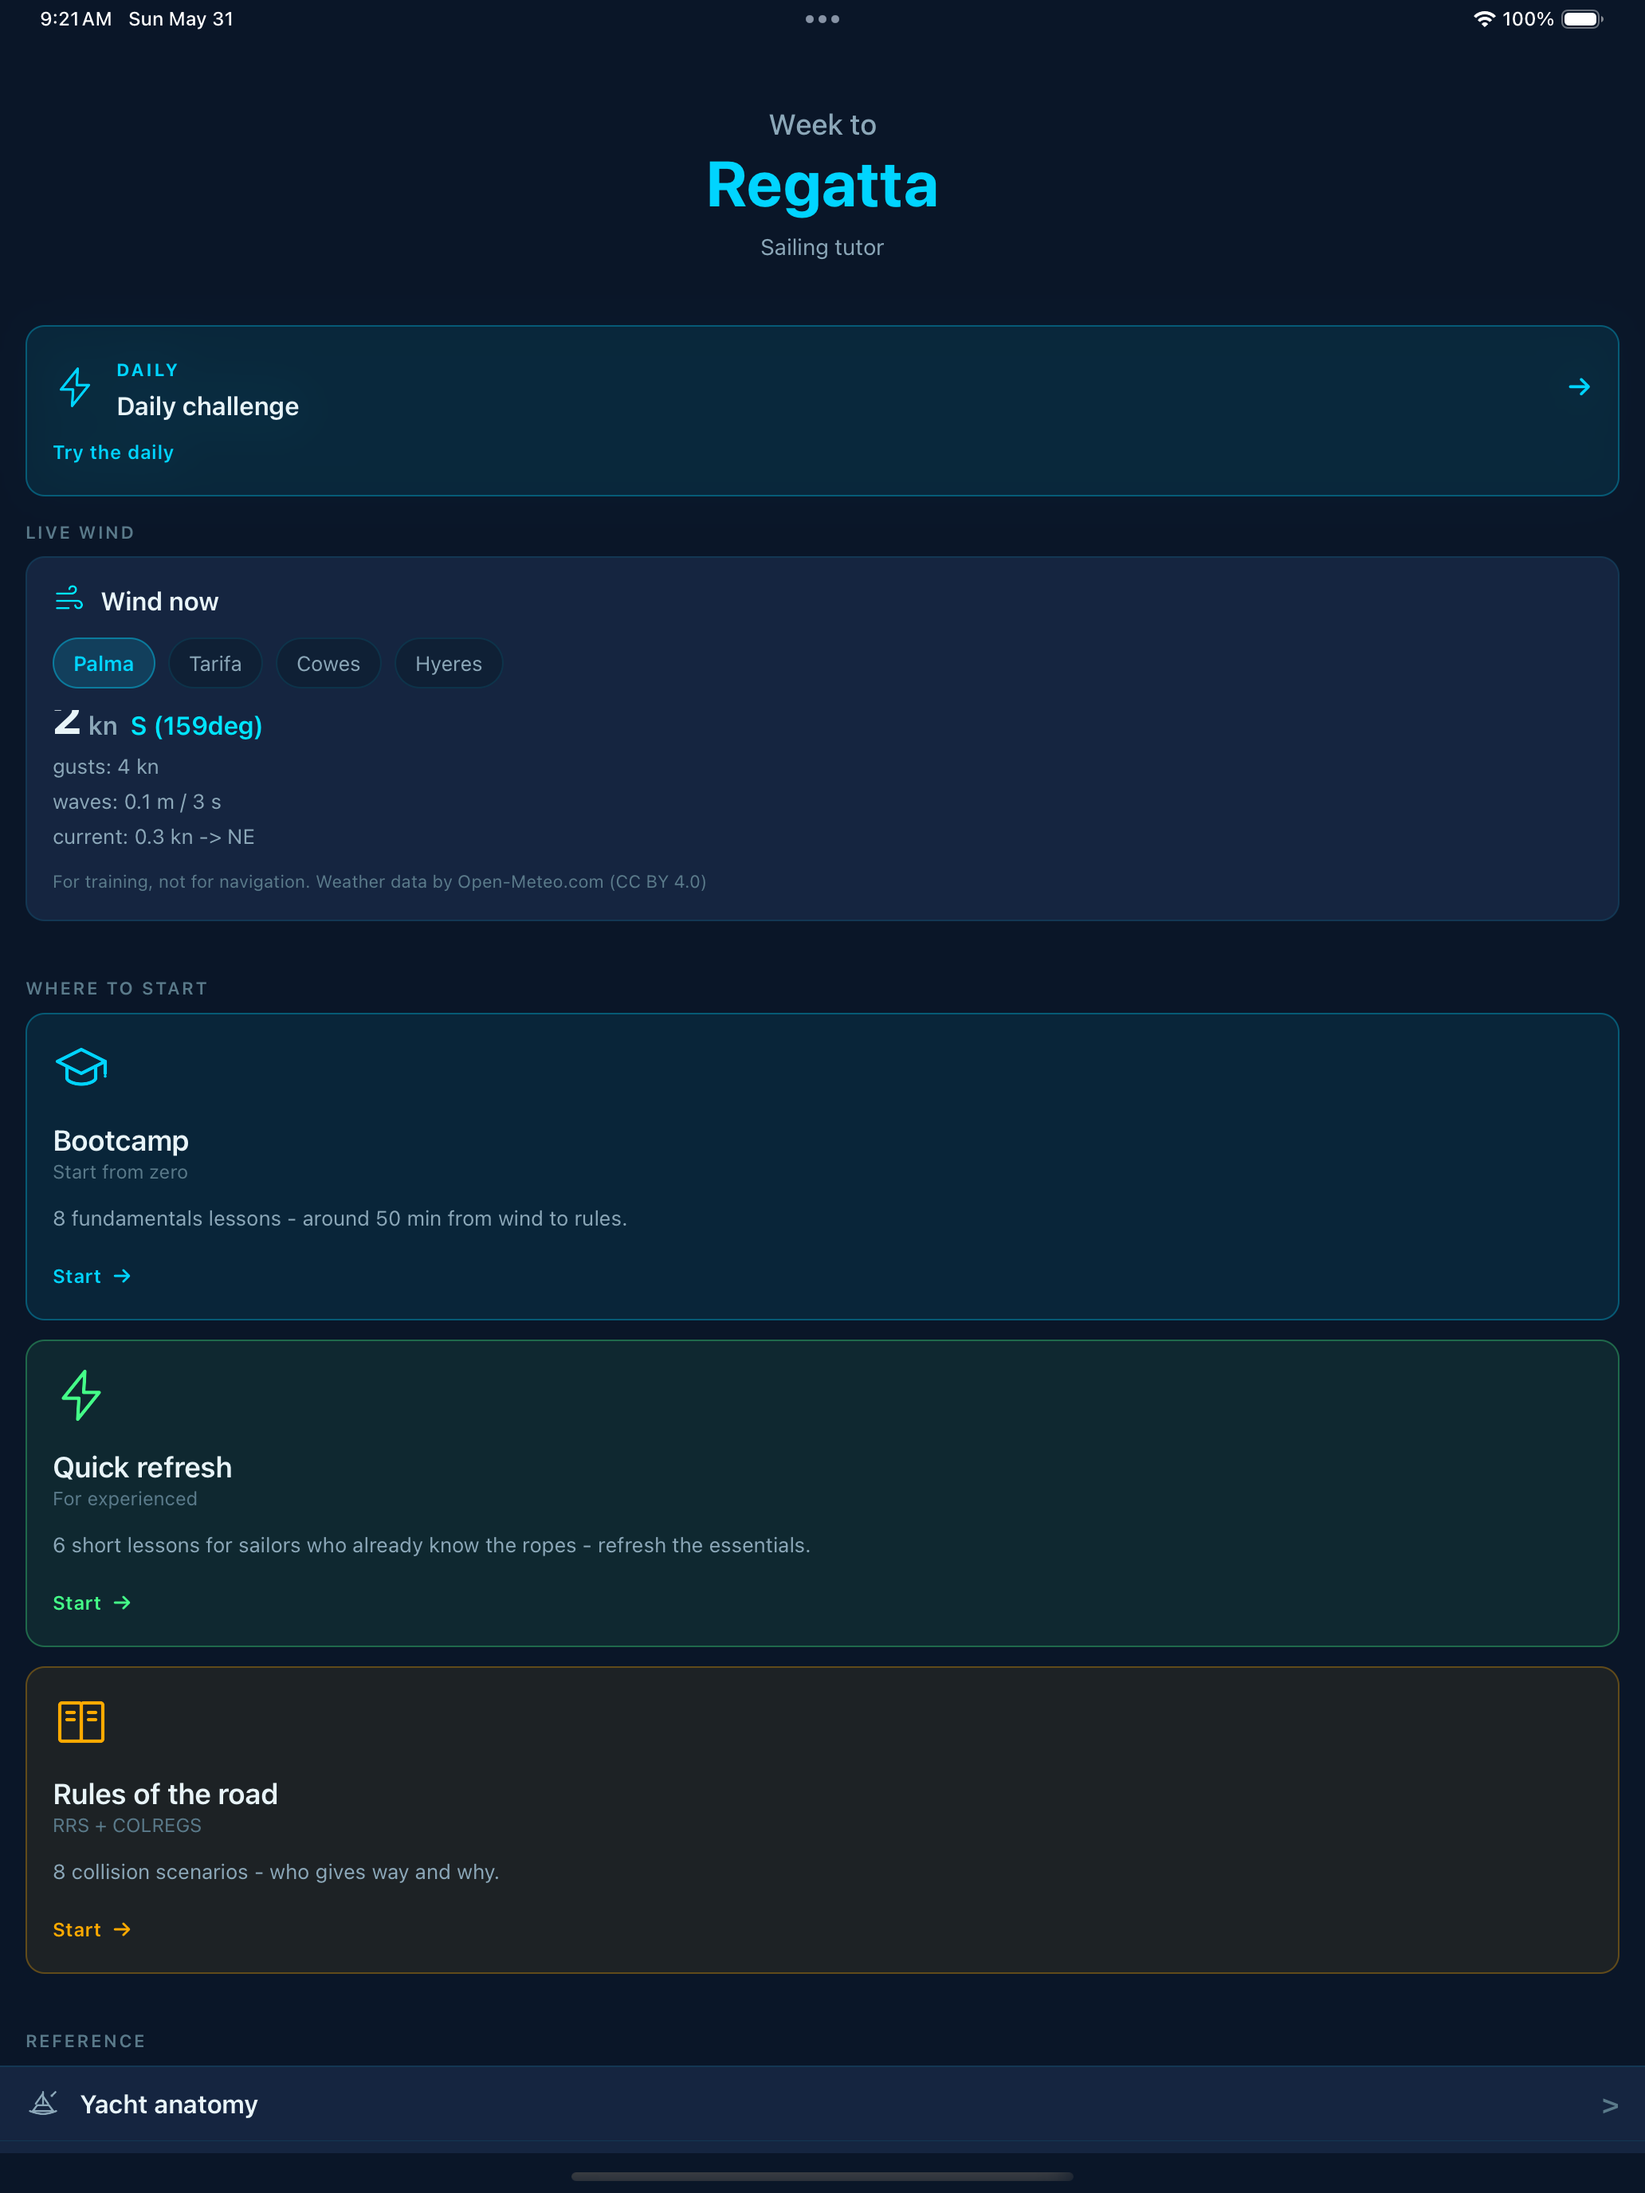
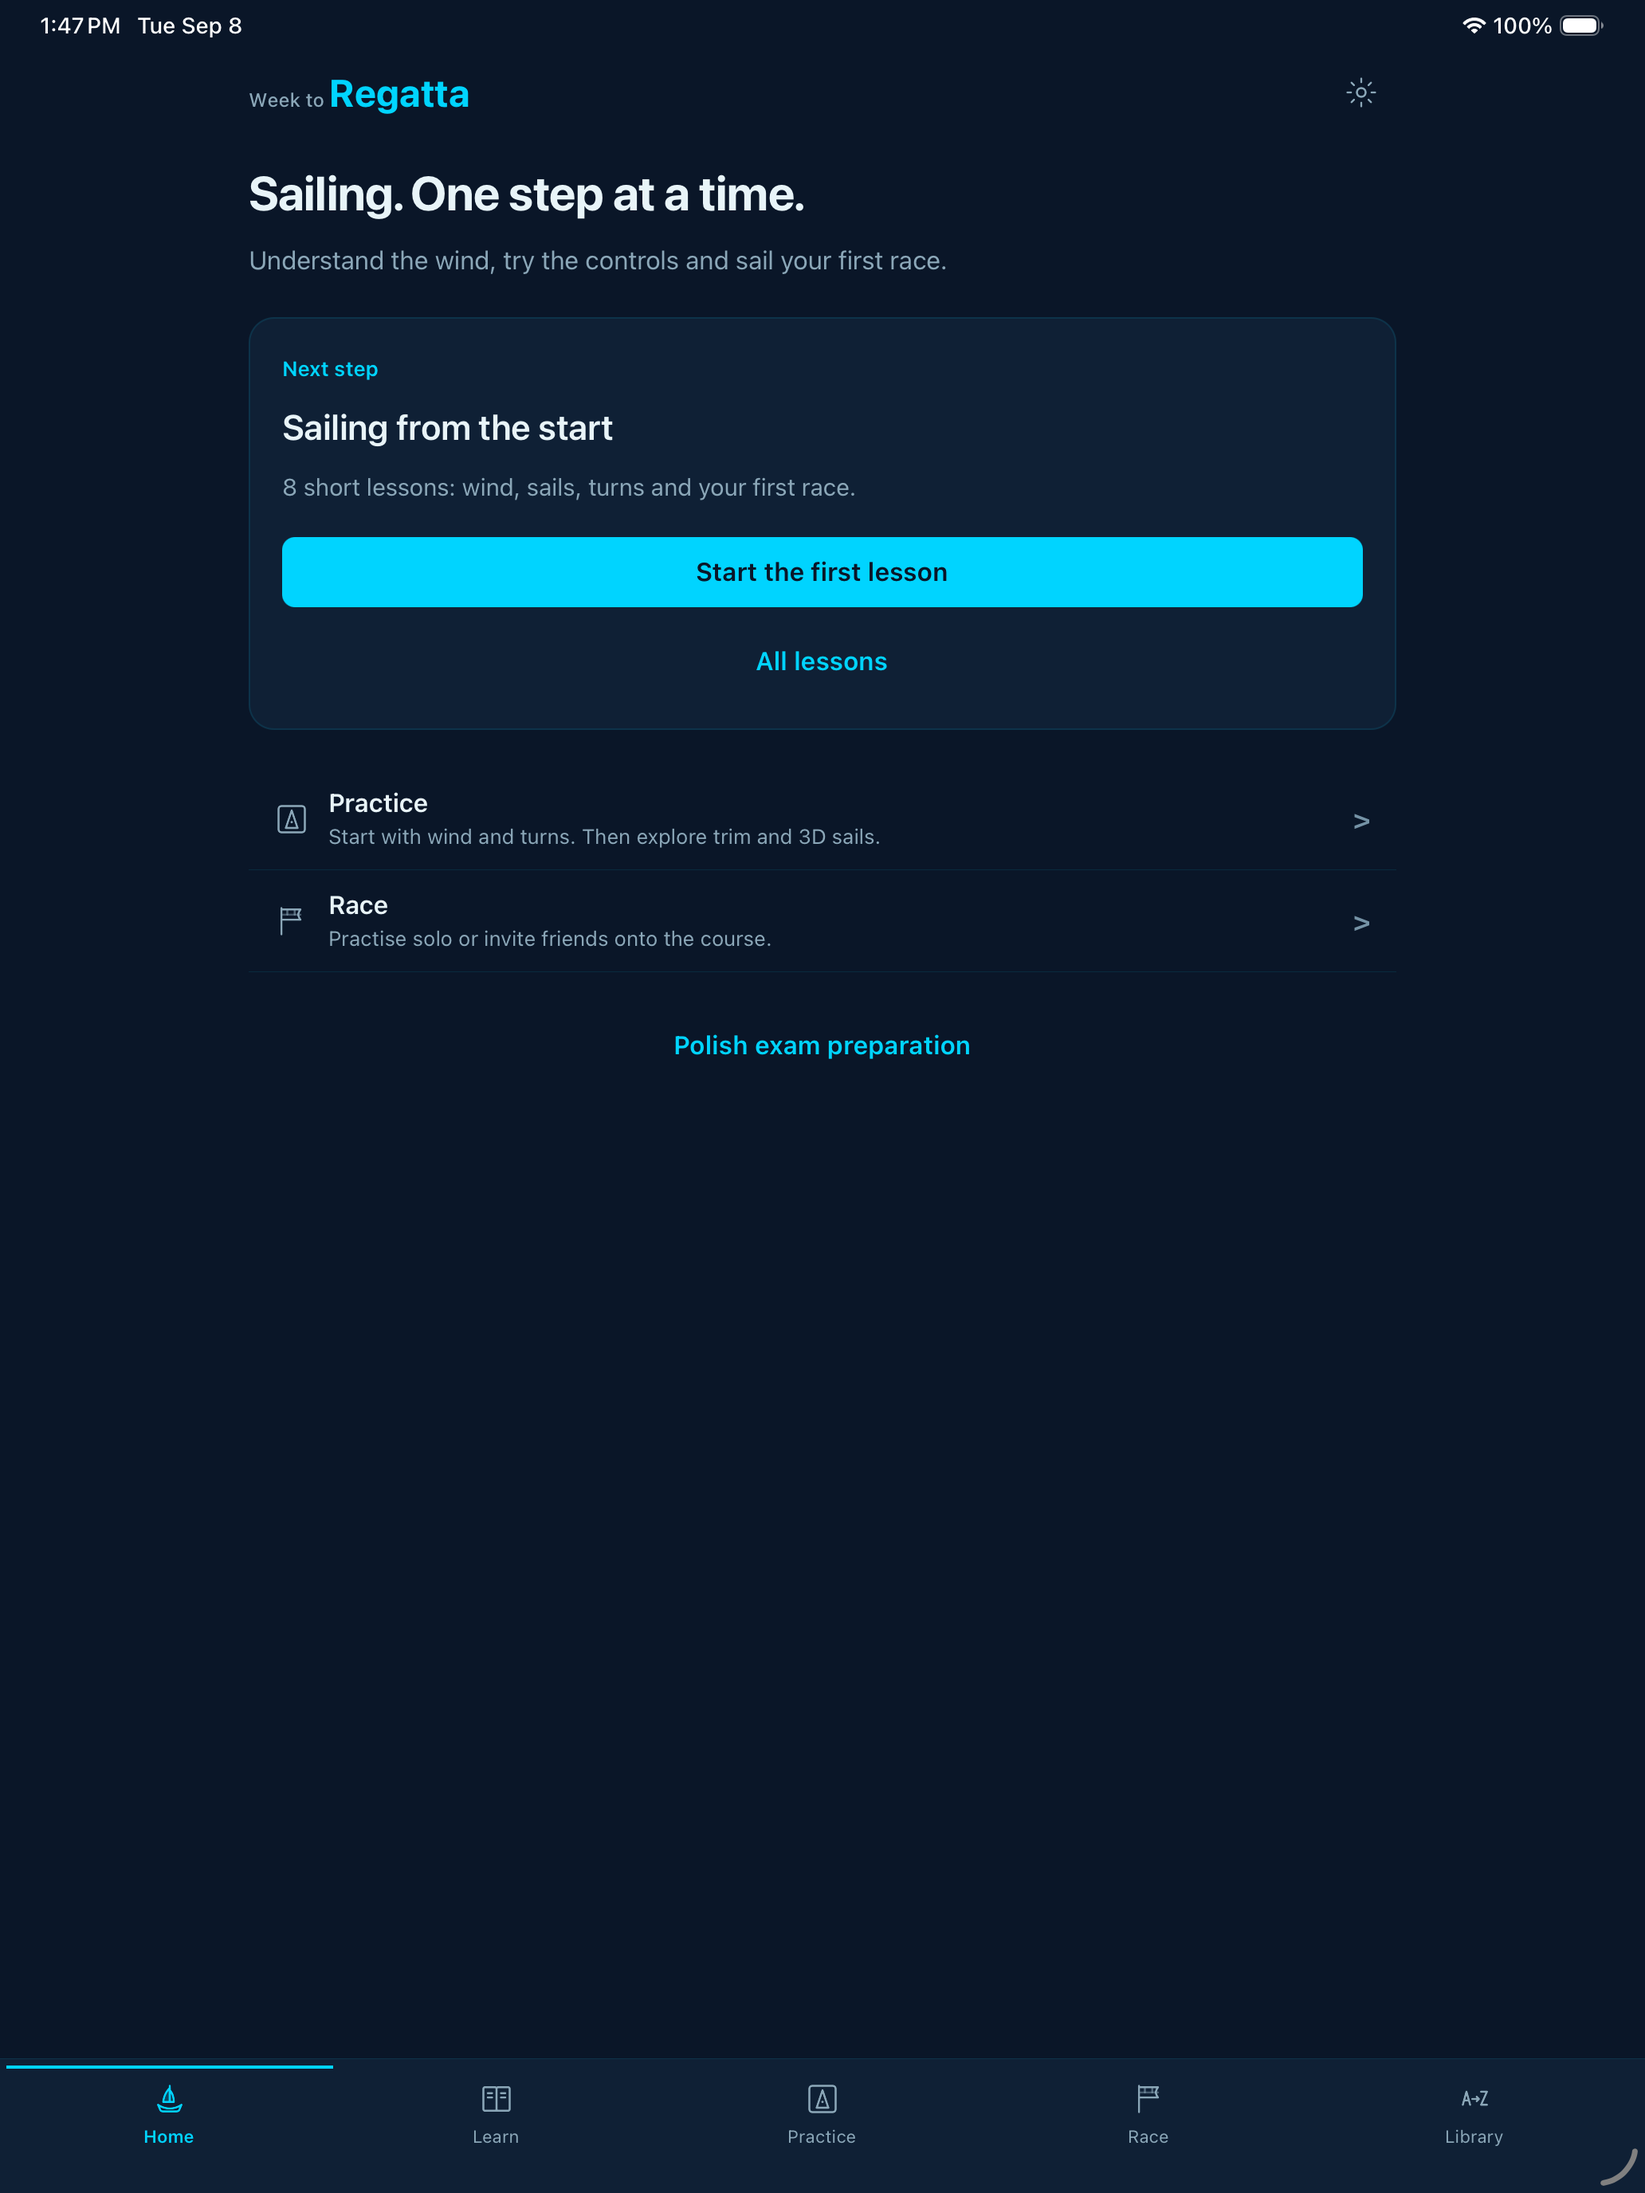
Document navigation release 42 and refresh store home screenshots [skip ci]

diff --git a/docs/design/navigation-redesign-2026-09-08.md b/docs/design/navigation-redesign-2026-09-08.md
@@ -20,4 +20,18 @@ Visual updates retain ocean colors and the existing typefaces. One primary fille
 
 This is a completed global shell/home/hub redesign, not a claim that every deep learning, exam or simulator control screen has been redesigned. Existing learning and racing functionality remains. Further work should focus on one end-to-end flow at a time: first lesson completion, first trim exercise, first multiplayer race. Measure whether users reach and complete each activity before adding more homepage content. No new analytics collection was introduced.
 
-Design rules: [DESIGN.md](../../DESIGN.md). Native visual evidence: [home](mobile/audits/navigation-build41/home-en.png). Release evidence will be recorded below after deployment and Apple processing.
+Design rules: [DESIGN.md](../../DESIGN.md). Native visual evidence: [home](mobile/audits/navigation-build41/home-en.png). Release evidence is recorded below.
+
+## Delivery evidence
+
+- Website code: `c6ad1d9`. [Deployment and post-deploy E2E](https://github.com/Warlockus-prod/regatta/actions/runs/34222778734) completed successfully. The production home was opened and inspected after deployment.
+- A full lesson-entry check exposed stale course-footer state. It now refreshes on navigation and when advancing to another lesson on the same page. The assistant trigger follows the course footer height. The new E2E checks direct home -> lesson -> visible course controls, and library search -> radio -> selected Learn section.
+- Final native source: `9455e10`, version 1.6.1 (42). This includes the localized Home title used by the back button. Build 41 was an intermediate verification build; 42 is the release candidate.
+- Native gate: offline bundle consistency, content sync, lint, TypeScript, 24 suites / 114 tests passed. Xcode Release archive and export succeeded; Apple validation and upload succeeded. Delivery UUID: `294aa96d-05a2-49af-94c7-7255c7087dcf`.
+- Exact build 42 installed and launched on iPhone 17 Pro Max Simulator. Settings shows 1.6.1 (42) and the Home back label. [English home](mobile/audits/navigation-build42/home-iphone-en.png) and [Russian home](mobile/audits/navigation-build42/home-iphone-ru.png) were visually inspected. The iPad home was inspected on build 41; build 42 changes only its hidden stack title.
+- No physical iPhone installation or Android device verification is claimed.
+
+- Build 42 is VALID and attached to the internal TestFlight Self group, verified through the ASC API. Build UUID: `294aa96d-05a2-49af-94c7-7255c7087dcf`.
+- Version 1.6.1 now references build 42. Review submission `1f95c4ce-efc4-4fbb-b3d1-4347f373cb5c` is WAITING_FOR_REVIEW, submitted 2026-09-08 at 12:14 UTC. Release mode: AFTER_APPROVAL. The prior build-40 review was canceled to replace it with this tested build.
+- Updated release notes in all seven locales, corrected stale review instructions, and replaced only the home screenshot in each English iPhone/iPad set. Both new images are COMPLETE and first in their existing five-image sets. Other gallery images were preserved. Original home images were backed up before replacement. [Apple screenshot requirements](https://developer.apple.com/help/app-store-connect/reference/app-information/screenshot-specifications/) were checked for the captured sizes.
+- Fastlane metadata precheck completed successfully after the metadata and screenshot updates. No App Store approval or public availability of build 42 is claimed yet.

diff --git a/docs/design/mobile/BUILDS.md b/docs/design/mobile/BUILDS.md
@@ -7,6 +7,7 @@ stayed on 0.13.0). A build is NOT shipped until attached + visible to a tester.
 
 | Build | Version | Commit | Attached (TestFlight) | What changed |
 |---|---|---|---|---|
+| 42 | 1.6.1 | `9455e10` (web `c6ad1d9`) | Self (verified 2026-09-08) | Five shared product sections, shorter home with a start/resume action, searchable catalog, grouped sailing/exam courses and persistent native navigation that hides during activities. Localized Home back label. 114 mobile tests and full website deployment checks passed; iPhone/iPad Simulator visual checks recorded. Apple validation/upload and metadata precheck passed. Updated home screenshots and review notes. Replaces build 40 in App Review, WAITING_FOR_REVIEW with automatic release after approval. Build 41 was an intermediate verification build. See [navigation audit](../navigation-redesign-2026-09-08.md). |
 | 40 | 1.6.1 | `585acef` (web follow-up `43a7ca7`) | Self (verified 2026-09-08) | Real Blender yacht source and export, shared anatomy model and 17 anchors, seven-language teaching corrections, full-height jib furling pressure fix. Basics wake and label fixes published on the website. 112 mobile tests passed; exact Release Simulator home/anatomy/three simulator entries checked. Archive, IPA validation, metadata precheck passed. Replaces 39 in App Review, WAITING_FOR_REVIEW with automatic release after approval. See [Blender audit](../blender-sailing-update-2026-09-08.md). |
 | 39 | 1.6.1 | `eb8e141` | Self (verified 2026-09-07) | SRC radio corrections: MOB MAYDAY, voice without DSC ACK, stricter distress position grading, balanced mock exam and clearer phone navigation. Refreshed embedded offline course verified inside the archive. 156 radio/voice and 112 mobile tests passed. Release Simulator course entry visually checked; Apple validation and metadata precheck passed. Replaces build 38 in App Review, WAITING_FOR_REVIEW with automatic release after approval. See [radio audit](../radio-course-audit-2026-09-07.md). |
 | 34 | 1.6.1 | `639eb17` | Self (verified 2026-09-07) | Shared 3D module redesign; native loader waits for scene readiness and retries on failures. Refreshed offline radio asset. Xcode archive/export, Apple validation/upload and VALID processing passed; 99 Jest tests, TypeScript and mobile lint passed. Simulator Release installed and launched; native visual inspection awaits macOS permissions. App Store version prepared, not submitted for review. |

diff --git a/docs/design/mobile/RELEASE_ENGINEERING.md b/docs/design/mobile/RELEASE_ENGINEERING.md
@@ -1,14 +1,17 @@
 # Release engineering and Apple workflow - Week to Regatta (mobile)
 
-Current release verified 2026-09-08: model/mobile source `585acef`, final website
-`43a7ca7`, app 1.6.1 (40). Build 40 is VALID, attached to TestFlight Self and
+Current release verified 2026-09-08: website `c6ad1d9`, native source `9455e10`,
+app 1.6.1 (42). Build 42 is VALID, attached to TestFlight Self and
 WAITING_FOR_REVIEW in App Store Connect, with automatic release after approval.
-See the [Blender and anatomy release audit](../blender-sailing-update-2026-09-08.md)
-for delivery evidence and iPhone Simulator screenshots. It replaces build 39's
-pending review and includes its radio corrections. Local Xcode archive/export
-and `altool` remain the working release path. EAS Update is unconfigured
-(`updates.url` and `extra.eas.projectId` absent). Shared web 3D/Trainer/Anatomy
-scenes update through the VPS website; bundled offline data ships with the binary.
+See the [navigation redesign audit](../navigation-redesign-2026-09-08.md) for
+checks, Simulator screenshots and delivery evidence. It replaces build 40's
+pending review and includes the previous Blender, sailing and radio changes.
+The [Blender audit](../blender-sailing-update-2026-09-08.md) documents that earlier work.
+
+Local Xcode archive/export and `altool` remain the working release path.
+EAS Update is unconfigured (`updates.url` and `extra.eas.projectId` absent).
+Shared web 3D/Trainer/Anatomy scenes update through the VPS website;
+bundled offline data and native navigation ship with the binary.
 
 Historical setup notes below (snapshot 2026-05-31). App `com.icoffio.regatta`, ASC app id `6768134329`,
 Apple team `547PA2PLLB`, Expo SDK 54, RN 0.81, expo-router 6, New Arch on.

diff --git a/mobile/asc-metadata/SCREENSHOTS.md b/mobile/asc-metadata/SCREENSHOTS.md
@@ -153,3 +153,14 @@ caption per-locale in the ASC web UI on submit day.
 If you want the captions baked in (heavier branding), use a Figma
 template overlay - that is a Sprint 9 nice-to-have, not a Sprint 8
 blocker. v1.0 ships clean device frames with ASC-side captions.
+
+
+## 2026-09-08, navigation update
+
+Updated `iphone-6.9/en/01-home.png` (1320x2868, build 42) and
+`ipad-13/en/01-home.png` (2064x2752, visually identical home from build 41).
+Uploaded as `01-home-build42.png` in the existing English iPhone and iPad sets.
+Both assets are COMPLETE and first in their five-image sets. The remaining
+four images in each set were preserved. The original first images were backed
+up before replacement. Release review instructions now describe the current
+3D anatomy, network multiplayer, analytics settings and five-section navigation.
